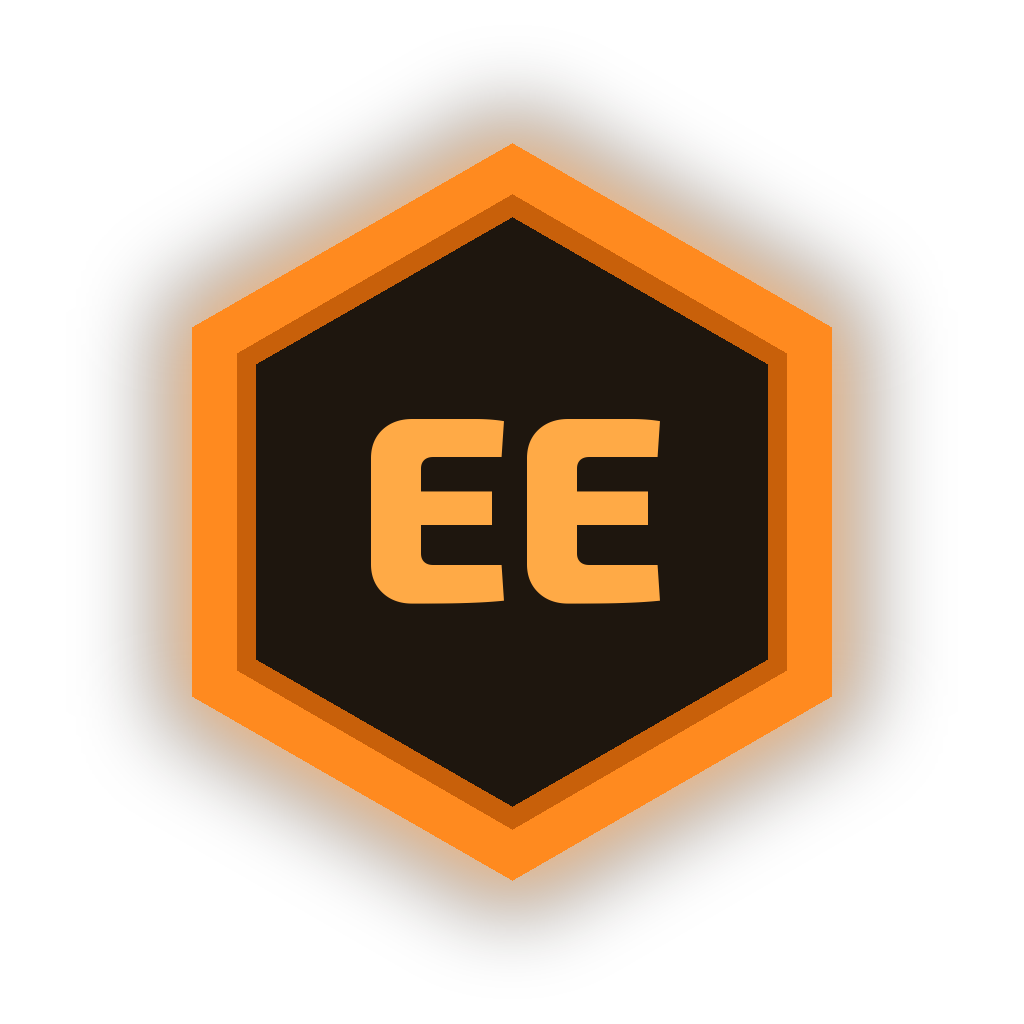
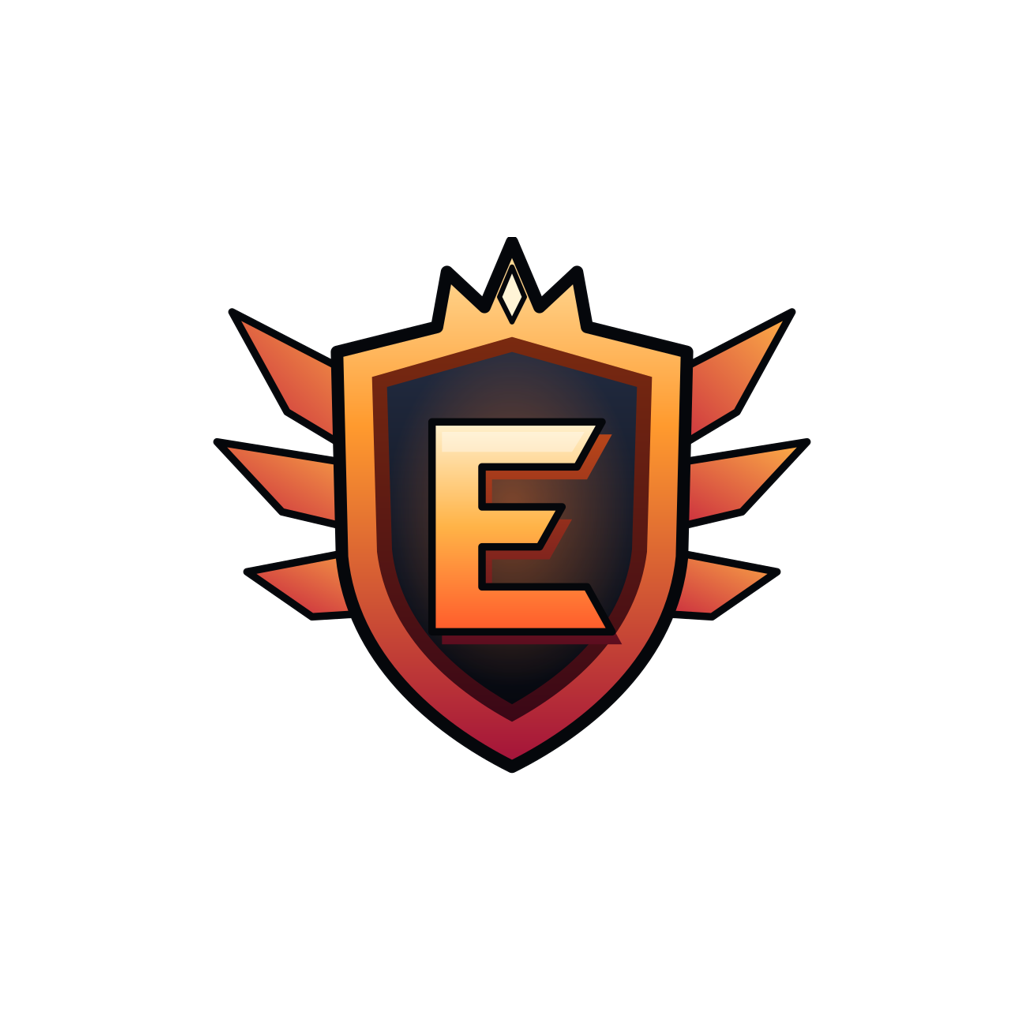
Новый логотип игры и иконка приложения; замены строго по позиции
Claude-Session: https://claude.ai/code/session_01BcUJqxWxMcVVYq5sncahZm

diff --git a/src/screens/Title.js b/src/screens/Title.js
@@ -10,28 +10,44 @@ import { T, Btn, Row, Seg, OrgLogo, GameIcon } from '../ui/kit';
 import { C, F, alpha } from '../ui/theme';
 import { SET, LANGS, GFX_OPTS, saveSettings } from '../ui/settings';
 
-// Логотип игры: щит-корона с монограммой EE
+// Логотип игры: щит с крыльями, короной-клинками и объёмной «E»
 export function GameLogo({ size = 120 }) {
   return (
-    <Svg width={size} height={size} viewBox="0 0 200 200">
-      <Defs>
-        <SG id="lg1" x1="0" y1="0" x2="0" y2="1"><Stop offset="0" stopColor="#ffb547" /><Stop offset="0.55" stopColor="#ff6a2b" /><Stop offset="1" stopColor="#c2183d" /></SG>
-        <SG id="lg2" x1="0" y1="0" x2="1" y2="1"><Stop offset="0" stopColor="#1b2233" /><Stop offset="1" stopColor="#0a0e17" /></SG>
-        <RadialGradient id="lg3" cx="0.5" cy="0.35" r="0.6"><Stop offset="0" stopColor="#ffffff" stopOpacity="0.35" /><Stop offset="1" stopColor="#ffffff" stopOpacity="0" /></RadialGradient>
-      </Defs>
-      {/* корона */}
-      <Path d="M52 46 L70 18 L86 40 L100 10 L114 40 L130 18 L148 46 Z" fill="url(#lg1)" stroke="#05070b" strokeWidth={4} strokeLinejoin="round" />
-      <Circle cx="70" cy="18" r="5" fill="#ffd27a" /><Circle cx="100" cy="10" r="6" fill="#ffd27a" /><Circle cx="130" cy="18" r="5" fill="#ffd27a" />
-      {/* щит */}
-      <Path d="M100 44 L164 62 L160 120 C156 152 132 176 100 192 C68 176 44 152 40 120 L36 62 Z" fill="url(#lg1)" stroke="#05070b" strokeWidth={5} strokeLinejoin="round" />
-      <Path d="M100 58 L150 72 L147 118 C144 144 126 163 100 176 C74 163 56 144 53 118 L50 72 Z" fill="url(#lg2)" />
-      <Path d="M100 58 L150 72 L147 118 C144 144 126 163 100 176 C74 163 56 144 53 118 L50 72 Z" fill="url(#lg3)" />
-      {/* монограмма EE */}
-      <G fill="url(#lg1)">
-        <Path d="M64 86 H96 V96 H76 V108 H92 V118 H76 V130 H96 V140 H64 Z" />
-        <Path d="M104 86 H136 V96 H116 V108 H132 V118 H116 V130 H136 V140 H104 Z" />
-      </G>
-      <Path d="M70 152 L100 166 L130 152" stroke="#ffb547" strokeWidth={3} fill="none" strokeLinecap="round" />
+    <Svg width={size * 240 / 220} height={size} viewBox="0 0 240 220">
+<Defs>
+<SG id="gl_rim" x1="0" y1="0" x2="0" y2="1"><Stop offset="0" stopColor="#ffe0a0"/><Stop offset="0.35" stopColor="#ff9a2e"/><Stop offset="1" stopColor="#a3123a"/></SG>
+<SG id="gl_rim2" x1="0" y1="0" x2="0" y2="1"><Stop offset="0" stopColor="#7a2a10"/><Stop offset="1" stopColor="#3a0716"/></SG>
+<SG id="gl_core" x1="0" y1="0" x2="0" y2="1"><Stop offset="0" stopColor="#222b40"/><Stop offset="1" stopColor="#06080f"/></SG>
+<SG id="gl_blade" x1="0" y1="0" x2="0" y2="1"><Stop offset="0" stopColor="#fff1cf"/><Stop offset="0.5" stopColor="#ffb347"/><Stop offset="1" stopColor="#ff5a2b"/></SG>
+<SG id="gl_ext" x1="0" y1="0" x2="0" y2="1"><Stop offset="0" stopColor="#b8461a"/><Stop offset="1" stopColor="#5c0d1f"/></SG>
+<SG id="gl_f1" x1="1" y1="0" x2="0" y2="1"><Stop offset="0" stopColor="#ffb347"/><Stop offset="1" stopColor="#c2183d"/></SG>
+<RadialGradient id="gl_glow" cx="0.5" cy="0.45" r="0.5"><Stop offset="0" stopColor="#ff7a2b" stopOpacity="0.45"/><Stop offset="1" stopColor="#ff7a2b" stopOpacity="0"/></RadialGradient>
+</Defs>
+<G stroke="#05070b" strokeWidth="3" strokeLinejoin="round">
+
+<Path d="M66 60 L8 30 L30 70 L60 88 Z" fill="url(#gl_f1)"/>
+<Path d="M64 92 L2 82 L28 110 L62 118 Z" fill="url(#gl_f1)"/>
+<Path d="M66 124 L14 134 L40 152 L72 150 Z" fill="url(#gl_f1)"/>
+
+<Path d="M174 60 L232 30 L210 70 L180 88 Z" fill="url(#gl_f1)"/>
+<Path d="M176 92 L238 82 L212 110 L178 118 Z" fill="url(#gl_f1)"/>
+<Path d="M174 124 L226 134 L200 152 L168 150 Z" fill="url(#gl_f1)"/>
+</G>
+
+<Path d="M120 2 L131 28 L146 14 L150 36 L190 46 L188 128 C184 168 152 196 120 212 C88 196 56 168 52 128 L50 46 L90 36 L94 14 L109 28 Z" fill="url(#gl_rim)" stroke="#05070b" strokeWidth="5" strokeLinejoin="round"/>
+<Path d="M120 40 L176 56 L174 126 C170 158 146 180 120 194 C94 180 70 158 66 126 L64 56 Z" fill="url(#gl_rim2)"/>
+<Path d="M120 46 L170 60 L168 125 C165 154 143 174 120 187 C97 174 75 154 72 125 L70 60 Z" fill="url(#gl_core)"/>
+<Path d="M120 46 L170 60 L168 125 C165 154 143 174 120 187 C97 174 75 154 72 125 L70 60 Z" fill="url(#gl_glow)"/>
+
+<G transform="translate(4,5)" fill="url(#gl_ext)">
+<Path d="M88 74 H156 L146 92 H108 V108 H140 L131 124 H108 V140 H150 L160 158 H88 Z"/>
+</G>
+
+<Path d="M88 74 H156 L146 92 H108 V108 H140 L131 124 H108 V140 H150 L160 158 H88 Z" fill="url(#gl_blade)" stroke="#05070b" strokeWidth="3" strokeLinejoin="round"/>
+<Path d="M92 78 H149 L144 86 H92 Z" fill="#ffffff" opacity="0.35"/>
+
+<Path d="M120 12 L125 24 L120 34 L115 24 Z" fill="#fff4d6" stroke="#05070b" strokeWidth="2" strokeLinejoin="round"/>
+
     </Svg>
   );
 }

diff --git a/src/screens/Roster.js b/src/screens/Roster.js
@@ -78,22 +78,26 @@ function TeamSide({ d, only }) {
   );
 }
 const SHORT_ATTR = { mech: 'МЕХ', iq: 'IQ', tw: 'КОМ', cl: 'КЛЧ', con: 'СТБ' };
-function subModal(t, d, p, starter) {
-  // starter=true: кого выпустить вместо p; иначе: кого из основы заменить на p
-  const st = starters(t); const bench = t.roster.map(i => S.players[i]).filter(x => x && !st.includes(x));
-  const list = (starter ? bench : st).slice().sort((a, b) => (b.role === p.role) - (a.role === p.role) || ovr(b) - ovr(a));
+function subModal(t, d, p, starter, any) {
+  // Замены по позиции: starter=true — кто выйдет вместо p; иначе — p в основу вместо игрока той же роли
+  const st = starters(t); const bench = t.roster.map(i => S.players[i]).filter(x => x && !st.includes(x) && !x.loanOut);
+  const pool = starter ? bench : st;
+  const same = pool.filter(x => x.role === p.role).sort((a, b) => ovr(b) - ovr(a));
+  if (!starter && same.length === 1 && !any) { swap(t, p, same[0]); save(); toast('🔁 ' + pnick(p) + ' вместо ' + pnick(same[0]) + ' (' + FAKE[d].roles[p.role] + ')'); bump(); return; }
+  const list = any ? pool.filter(x => x.role !== p.role).sort((a, b) => ovr(b) - ovr(a)) : same;
   openModal(() => (
     <View>
-      <T h s={17}>{starter ? 'Замена: кто выйдет вместо ' + pnick(p) : pnick(p) + ' в основу — вместо кого?'}</T>
-      <T mu s={11} style={{ marginBottom: 8 }}>Игроки своей роли — сверху. Каждая замена немного снижает химию.</T>
+      <T h s={17}>{starter ? 'Замена · ' + FAKE[d].roles[p.role] : pnick(p) + ' в основу'}</T>
+      <T mu s={11} style={{ marginBottom: 8 }}>{any ? 'Игроки других позиций: на чужой роли они играют слабее.' : starter ? 'Запасные на позиции «' + FAKE[d].roles[p.role] + '». Замена немного снижает химию.' : 'Кого заменить на позиции «' + FAKE[d].roles[p.role] + '».'}</T>
       {list.length ? list.map(x => { const dlt = ovr(starter ? x : p) - ovr(starter ? p : x); return (
-        <Pressable key={x.id} onPress={() => { if (starter) swap(t, x, p); else swap(t, p, x); save(); closeModal(); toast('🔁 ' + pnick(starter ? x : p) + ' в основе'); bump(); }} style={{ flexDirection: 'row', alignItems: 'center', gap: 10, padding: 10, borderRadius: 10, borderWidth: 1, borderColor: C.line, marginBottom: 6, backgroundColor: x.role === p.role ? alpha(FAKE[d].color, 0.1) : 'transparent' }}>
+        <Pressable key={x.id} onPress={() => { if (starter) swap(t, x, p); else swap(t, p, x); save(); closeModal(); toast('🔁 ' + pnick(starter ? x : p) + ' в основе'); bump(); }} style={{ flexDirection: 'row', alignItems: 'center', gap: 10, padding: 10, borderRadius: 10, borderWidth: 1, borderColor: C.line, marginBottom: 6 }}>
           <Role t={FAKE[d].roles[x.role]} /><Flag cc={pcc(x)} />
           <View style={{ flex: 1 }}><T h s={14}>{pnick(x)}</T><T mu s={11}>{x.age} л. · мораль {x.mor} · форма {x.form > 0 ? '+' : ''}{x.form}</T></View>
           <T num s={12} style={{ color: dlt > 0 ? C.good : dlt < 0 ? C.bad : C.mu }}>{dlt > 0 ? '+' : ''}{dlt}</T>
           <Ovr o={ovr(x)} s={20} />
-        </Pressable>); }) : <T mu>Некого поставить — купи игрока на Рынке.</T>}
-      <Btn style={{ marginTop: 4 }} title="Отмена" onPress={closeModal} />
+        </Pressable>); }) : <T mu s={12} style={{ marginBottom: 8 }}>{starter ? 'В запасе нет игрока на позицию «' + FAKE[d].roles[p.role] + '». Купи его на Рынке.' : 'Нет игрока для замены.'}</T>}
+      {!any && pool.some(x => x.role !== p.role) ? <Btn small style={{ marginBottom: 6 }} title="Показать игроков других позиций" onPress={() => { closeModal(); setTimeout(() => subModal(t, d, p, starter, true), 250); }} /> : null}
+      <Btn title="Отмена" onPress={closeModal} />
     </View>
   ));
 }
